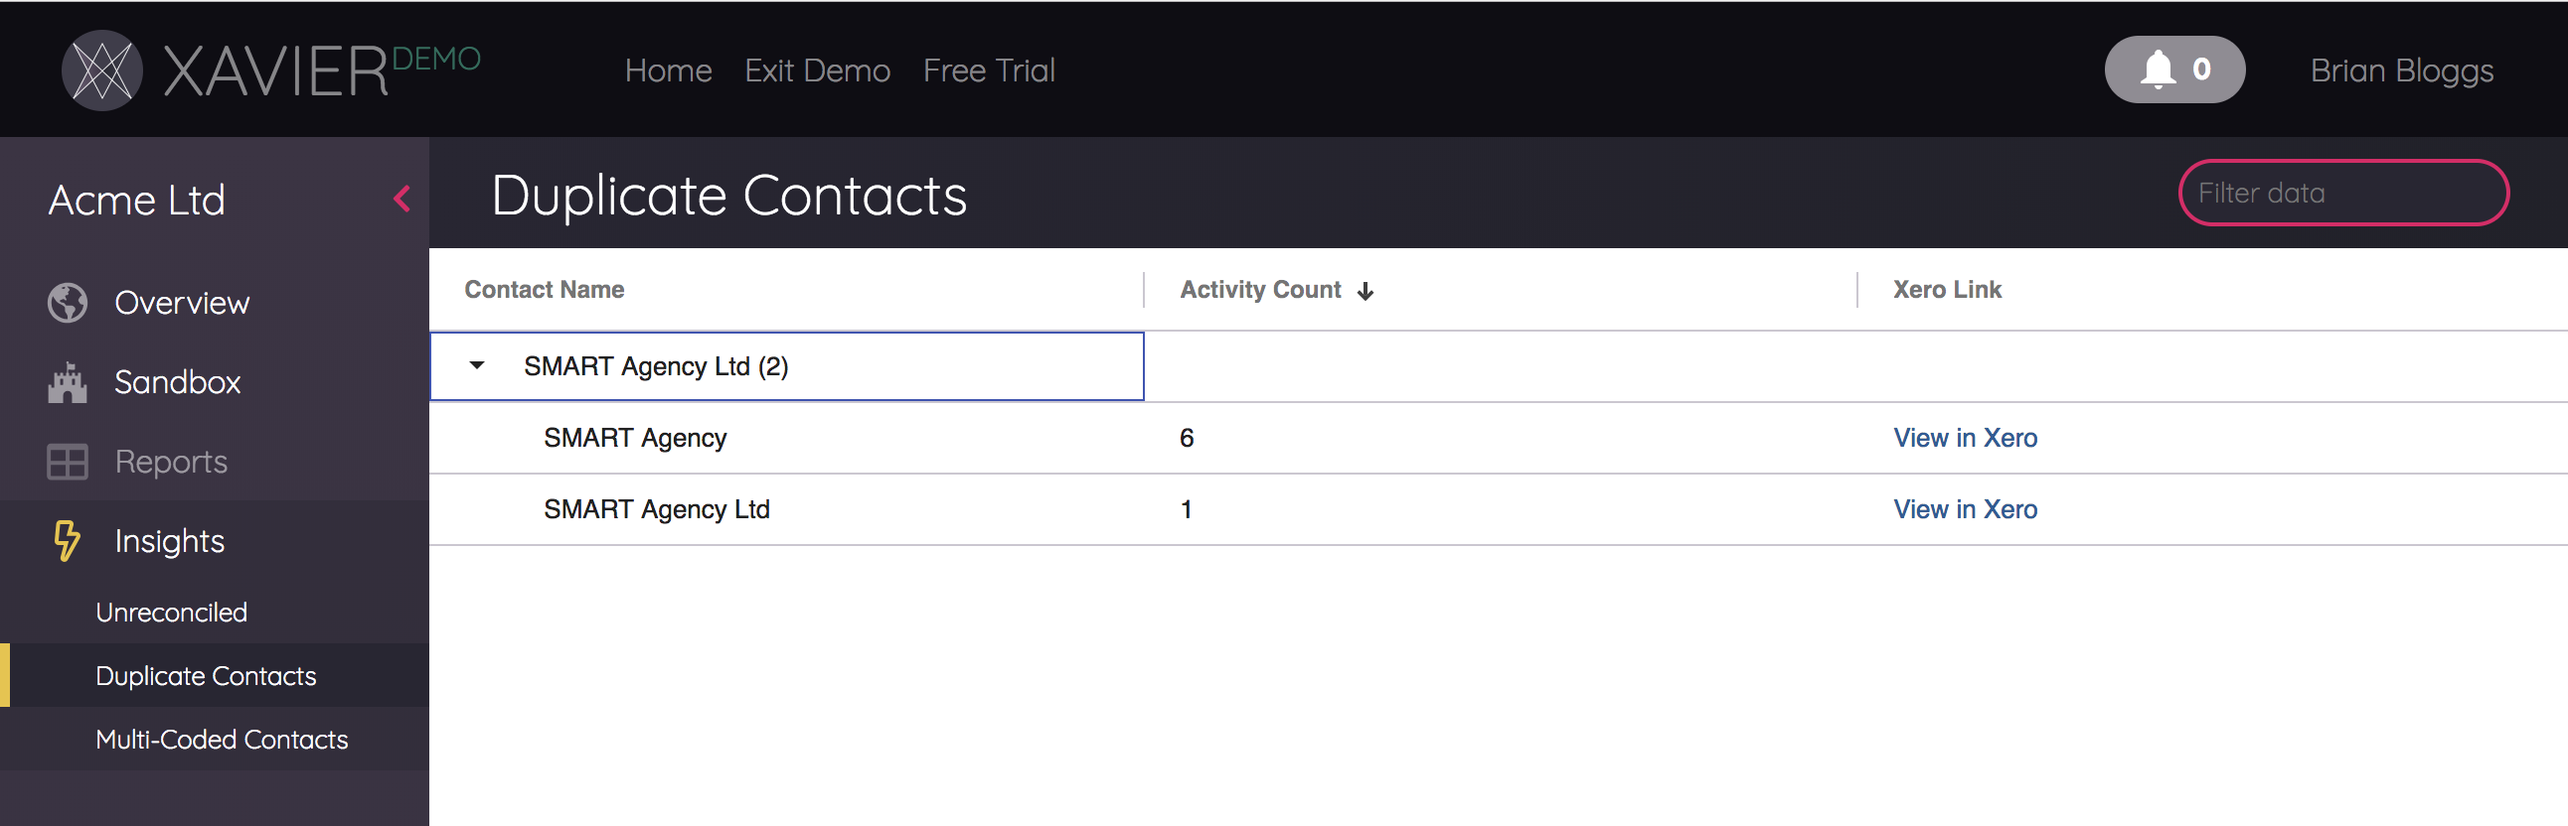
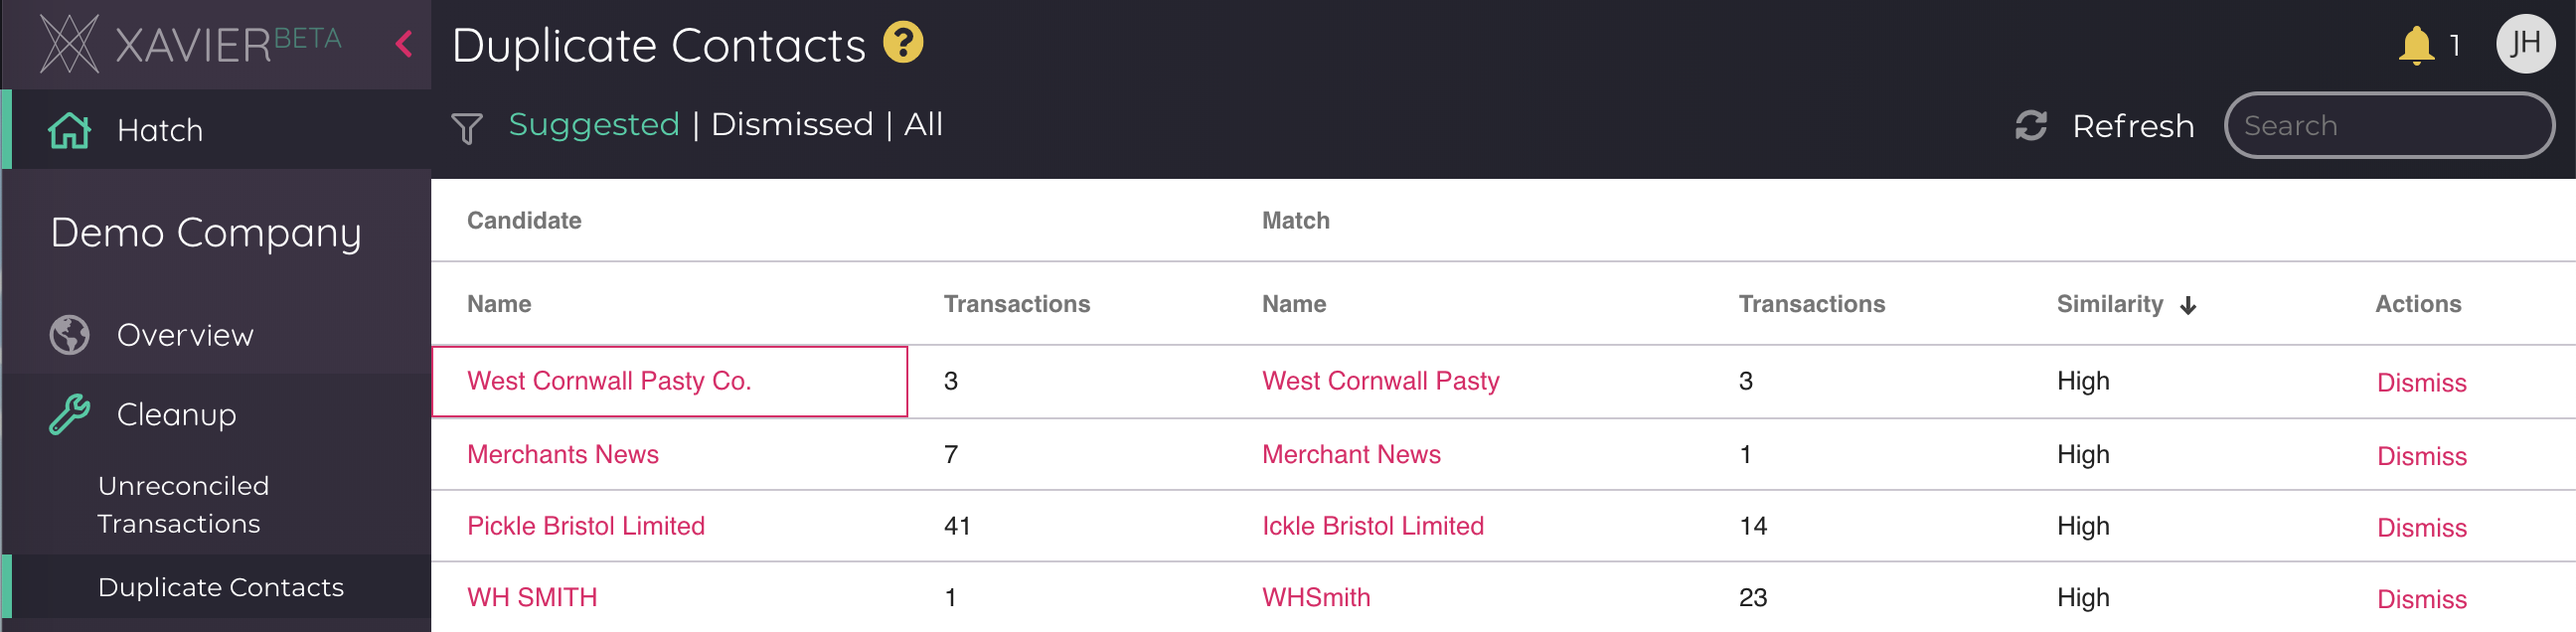
Updated duplicate contacts info and screenshot

diff --git a/.vuepress/config.js b/.vuepress/config.js
@@ -24,7 +24,7 @@ module.exports = {
             '/xero-integration',
             '/faq',
             '/troubleshooting',
-            '/contact-us'
+            '/contact-us',
         ],
         displayAllHeaders: true,
         lastUpdated: 'Last Updated',

diff --git a/insights.md b/insights.md
@@ -22,8 +22,7 @@ The results shown in this Xavier insight are your Xero contacts that we’ve ide
 This can happen if you create a new contact during the process of inputting an invoice or similar, and miss the fact that
 the contact already exists.
 
-Review these, (soon you'll be able to dismiss any incorrect suggestions), and click on the Xero links for the contacts
-you want to amend.
+Review these, you may dismiss any which aren't true duplicates, or clicking the name of the contact will take you to Xero to amend them. The transaction count should give a good indication of which contact has had more activity.
 
 Xero guidance on merging contacts can be found [here](https://central.xero.com/s/article/Edit-or-merge-an-existing-contact).
 
